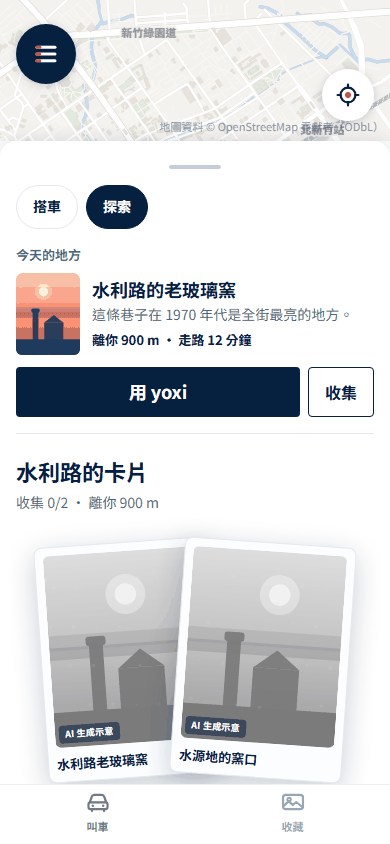
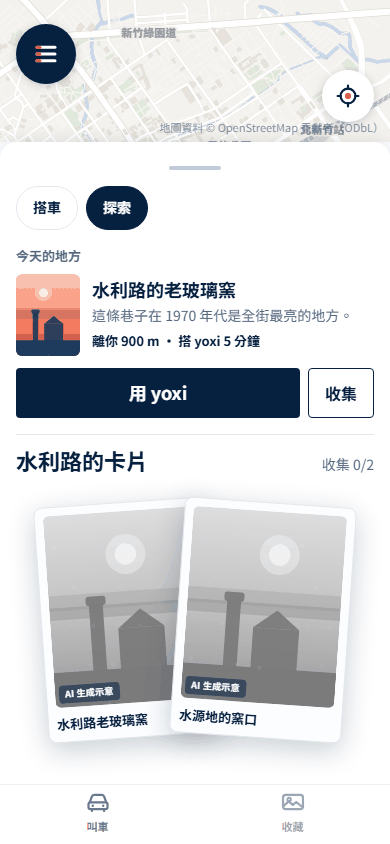
fix: 探索面板上拉後不再捲動，地點資訊改寫搭 yoxi 分鐘
- 展開的探索面板 overflow:hidden；卡片區改成定高（--ride-cards-h，JS 量＝展開高度扣掉收合態與間距，
  視窗改大小時隨地圖重畫重量），卡片堆是 size container，卡寬照張數、高度放不下就照高度縮。
  390×844 卡片大小跟原本一樣，667 高的手機也不用捲；拖曳時卡片不跟著變大小。
- 卡片區標題與「收集 n/N」排成一列，拿掉跟正上方地點資訊重複的距離，讓出高度給卡片。
- 地點資訊「離你 900 m · 走路 12 分鐘」改成「離你 900 m · 搭 yoxi 5 分鐘」（fmt.rideMin(fmt.km(dist))）。
- ride.spec：分鐘改驗 rideMin；新增「上拉不用捲」的測試（兩張、四張、667 高），舊 CSS 下會失敗。

diff --git a/app/css/views/ride.css b/app/css/views/ride.css
@@ -121,16 +121,26 @@
 .ride-v2__actions { display: grid; grid-template-columns: 1fr auto; gap: var(--sp-2); margin-top: var(--sp-3); }
 .ride-v2__actions .btn-primary, .ride-v2__actions .btn-ghost { min-height: 50px; }
 .ride-v2__actions .btn-ghost { padding: 0 var(--sp-4); border: 1px solid var(--yoxi-navy); }
-.ride-v2__expanded { margin-top: var(--sp-4); padding-top: var(--sp-3); padding-bottom: var(--sp-5); border-top: 1px solid var(--yoxi-line); }
-.ride-v2__section h2 { margin: var(--sp-2) 0 var(--sp-1); font-size: var(--fs-title); }
-.ride-v2__section p { margin: 0 0 var(--sp-4); color: var(--app-muted); font-size: var(--fs-sm); line-height: var(--lh-body); }
-.ride-v2__stack { display: flex; justify-content: center; align-items: center; width: 100%; min-height: 220px; padding: var(--sp-3) 0 var(--sp-4); }
-.ride-v2__card { position: relative; flex: none; width: 48%; padding: var(--sp-2); border: 1px solid var(--yoxi-line); border-radius: var(--r-card); background: var(--yoxi-paper); box-shadow: var(--sh-lift); text-align: left; transition: transform var(--t-base) var(--ease-out); }
-.ride-v2__card + .ride-v2__card { margin-left: -10%; }
-.ride-v2__stack[data-stack-size="3"] .ride-v2__card { width: 38%; }
-.ride-v2__stack[data-stack-size="4"] .ride-v2__card { width: 31%; }
-.ride-v2__stack[data-stack-size="3"] .ride-v2__card + .ride-v2__card,
-.ride-v2__stack[data-stack-size="4"] .ride-v2__card + .ride-v2__card { margin-left: -8%; }
+/* 展開後整張面板不捲：卡片區是定高（--ride-cards-h，JS 量＝展開高度扣掉地點資訊），標題一列，其餘給卡片堆 */
+.ride-v2__sheet:not(.is-collapsed) { overflow: hidden; }
+.ride-v2__expanded { display: flex; flex-direction: column; height: var(--ride-cards-h, 320px); margin-top: var(--sp-4); padding-top: var(--sp-3); border-top: 1px solid var(--yoxi-line); }
+.ride-v2__section { display: flex; justify-content: space-between; align-items: baseline; gap: var(--sp-3); }
+.ride-v2__section h2 { margin: 0; font-size: var(--fs-title); line-height: var(--lh-tight); }
+.ride-v2__section p { flex: none; margin: 0; color: var(--app-muted); font-size: var(--fs-sm); }
+/* 卡片堆吃掉剩下的高度、是 size container：卡寬照張數（兩張 48%、三張 38%、四張 31%），
+   高度放不下就照高度縮（卡高＝4:5 插圖＋內距＋框線＋一行名字 ≤ 100cqh）；疊的量跟著卡寬 */
+.ride-v2__stack {
+  --card-max: 48%; --card-lap: .21;
+  display: flex; flex: 1 1 0; min-height: 0; justify-content: center; align-items: center; width: 100%;
+  padding: var(--sp-3) 0 var(--sp-4); container-type: size;
+}
+.ride-v2__stack[data-stack-size="3"] { --card-max: 38%; }
+.ride-v2__stack[data-stack-size="4"] { --card-max: 31%; --card-lap: .26; }
+.ride-v2__card {
+  --card-w: min(var(--card-max), calc((100cqh - var(--sp-2) * 3 - 2px - var(--fs-cap) * 1.35) * .8 + var(--sp-2) * 2 + 2px));
+  position: relative; flex: none; width: var(--card-w); padding: var(--sp-2); border: 1px solid var(--yoxi-line); border-radius: var(--r-card); background: var(--yoxi-paper); box-shadow: var(--sh-lift); text-align: left; transition: transform var(--t-base) var(--ease-out);
+}
+.ride-v2__card + .ride-v2__card { margin-left: calc(var(--card-w) * var(--card-lap) * -1); }
 .ride-v2__card:nth-child(odd) { transform: rotate(-4deg); }
 .ride-v2__card:nth-child(even) { transform: rotate(4deg); }
 .ride-v2__card:hover, .ride-v2__card:focus-visible { z-index: 8; transform: translateY(-8px) rotate(0); }
@@ -139,7 +149,7 @@
 .ride-v2__card:not(.is-collected) .ride-v2__card-art > :first-child { filter: grayscale(1); opacity: .65; }
 /* 角標放左下：chengshi.css 的 .ai-mark 有 top，要清掉，不然上下都貼住、半透明的底色會拉成整張卡那麼高 */
 .ride-v2__card .ai-mark { position: absolute; top: auto; bottom: var(--sp-1); left: var(--sp-1); z-index: 2; }
-.ride-v2__card strong { display: block; margin-top: var(--sp-2); font-size: var(--fs-cap); line-height: 1.35; }
+.ride-v2__card strong { display: block; margin-top: var(--sp-2); overflow: hidden; font-size: var(--fs-cap); line-height: 1.35; white-space: nowrap; text-overflow: ellipsis; }
 
 .ride-card-float[hidden] { display: none; }
 .ride-card-float { position: absolute; inset: 0; z-index: 80; display: flex; align-items: center; justify-content: center; padding: var(--sp-4); background: var(--yoxi-navy-60); }

diff --git a/app/js/views/ride.js b/app/js/views/ride.js
@@ -861,11 +861,11 @@ function areaProgress(a) {
   return { done: a.cards.filter(function (id) { return S().has(id); }).length, total: a.cards.length };
 }
 function areaCard(id) { return (M().POSTCARDS || []).filter(function (p) { return p.id === id; })[0] || null; }
+/* 標題與進度排成一列；距離已經寫在正上方的地點資訊裡，這裡不重複（展開後整張面板不用捲） */
 function areaCardsHTML(a) {
-  const r = areaProgress(a), p = APP.place(a.id);
-  const d = p && p.dist != null ? '離你 ' + F.dist(p.dist) : DIST_TBD;
+  const r = areaProgress(a);
   return '<div class="ride-v2__section"><h2>' + esc(a.name) + '的卡片</h2>' +
-      '<p>收集 ' + r.done + '/' + r.total + ' · ' + esc(d) + '</p></div>' +
+      '<p>收集 ' + r.done + '/' + r.total + '</p></div>' +
     '<div class="ride-v2__stack" data-stack-size="' + a.cards.length + '">' + a.cards.map(function (id) {
       const c = areaCard(id);
       if (!c) return '';
@@ -890,6 +890,13 @@ function sheetMaxPx(sheet) {
   if (!isFinite(n)) return box;
   return /%$/.test(v) ? box * n / 100 : n;
 }
+/* 展開時卡片區的高度＝展開的高度扣掉收合態（到地點資訊為止）與上方間距。寫回 --ride-cards-h：
+   卡片照這個高度縮放，展開後不用捲；拖曳時面板只是露出多少，卡片不跟著變大小。 */
+function exploreCardsH(sheet) {
+  const cards = sheet.querySelector('[data-area-expanded]');
+  const gap = parseFloat(getComputedStyle(cards).marginTop) || 0;
+  return Math.max(0, Math.floor(sheetMaxPx(sheet) - exploreCollapsedH(sheet) - gap));
+}
 /* 標籤照資料寫：今天的地方＝MOCK.TODAY；預選的是最近的地區；其餘是使用者從地圖選的 */
 function areaLabel(a) {
   const today = M().TODAY;
@@ -899,7 +906,7 @@ function areaLabel(a) {
 function areaIntroHTML(a) {
   const p = APP.place(a.id);
   const hook = p.hook && p.hook.indexOf('收集於') !== 0 ? p.hook : p.type;
-  const meta = p.dist != null ? '離你 ' + F.dist(p.dist) + ' · 走路 ' + F.walkMin(p.dist) + ' 分鐘' : DIST_TBD;
+  const meta = p.dist != null ? '離你 ' + F.dist(p.dist) + ' · 搭 yoxi ' + F.rideMin(kmOf(p)) + ' 分鐘' : DIST_TBD;
   return '<div class="ride-v2__eyebrow">' + esc(areaLabel(a)) + '</div>' +
     '<div class="ride-v2__feature">' +
       '<span class="ride-v2__feature-art" data-art="' + esc(p.art) + '" data-seed="1"></span>' +
@@ -954,7 +961,11 @@ function rideV2Mount(root, params, ctx) {
       spots: store().get('rideSpots') === false ? false : rideSpots(), max: 4,
       overlay: mapOverlay('explore'), onSpot: function (s) { selectArea(s.id, true); },
     };
-  }, markSelected);
+  }, function (map) { markSelected(map); fit(); });     /* 視窗改大小會重畫地圖：兩段高度跟著重量 */
+  function fit() {
+    sheet.style.setProperty('--sheet-min', exploreCollapsedH(sheet) + 'px');
+    sheet.style.setProperty('--ride-cards-h', exploreCardsH(sheet) + 'px');
+  }
   /* 三段：hidden 只剩拉把（看整張地圖）／collapsed 地點資訊／open 接著看卡片 */
   let state = 'collapsed';
   function setSheet(next) {
@@ -970,7 +981,7 @@ function rideV2Mount(root, params, ctx) {
     SHELL.injectArt(intro);
     SHELL.injectArt(expanded);
     SHELL.injectIcons(sheet);
-    sheet.style.setProperty('--sheet-min', exploreCollapsedH(sheet) + 'px');
+    fit();
     intro.querySelector('[data-act="expand-cards"]').onclick = function () { setSheet('open'); };
     intro.querySelector('[data-act="use-yoxi"]').onclick = function () { setDropoff(selected.id, 'e'); };
     expanded.querySelectorAll('[data-act="open-card"]').forEach(function (b) {

diff --git a/app/tests/specs/ride.spec.js b/app/tests/specs/ride.spec.js
@@ -119,7 +119,9 @@ T.spec('ride', function (t) {
     const nearest = areas.reduce(function (a, b) { return app.APP.place(a).dist <= app.APP.place(b).dist ? a : b; });
     t.eq(app.route().query.get('area'), nearest, '探索預選最近地區');
     t.includes(app.text('.ride-v2__feature'), app.APP.place(nearest).name, '底部顯示最近地點');
-    t.includes(app.text('.ride-v2__feature'), String(app.APP.fmt.walkMin(app.APP.place(nearest).dist)), '步行分鐘由公式算');
+    const F = app.APP.fmt, nd = app.APP.place(nearest).dist;
+    t.includes(app.text('.ride-v2__feature'), '離你 ' + F.dist(nd) + ' · 搭 yoxi ' + F.rideMin(F.km(nd)) + ' 分鐘', '搭 yoxi 分鐘由公式算');
+    t.ok(app.text('.ride-v2__feature').indexOf('走路') < 0, '地點資訊不寫走路分鐘');
     t.ok(app.$('[data-act="use-yoxi"]') && app.$('[data-act="expand-cards"]'), '用 yoxi 與收集兩個動作');
     await app.click('[data-act="mode-ride"]');
     t.eq(app.route().query.get('mode'), null, '切回搭車清除探索模式');
@@ -854,6 +856,39 @@ T.spec('ride', function (t) {
       resize('760px');
       await app.waitFor(function () { const s = app.$('.spot.is-selected'); return s && filled(); }, 3000, '探索重畫後仍標著選到的景點');
       t.eq(app.$$('main.view .spot').length, 4, '探索重畫後還是四顆景點');
+      t.eq(app.errors.length, 0, '錯誤：' + app.errors.join('；'));
+    } finally {
+      fr.style.height = h0;
+    }
+  }, { timeout: 15000 });
+
+  t.test('探索上拉：卡片照剩下的高度縮，整張面板不用捲（兩張、四張、矮的手機）', async function (app) {
+    const fr = app.win.frameElement, h0 = fr.style.height;
+    const fits = function (msg) {
+      const s = app.$('.ride-sheet'), sr = s.getBoundingClientRect(), st = app.$('.ride-v2__stack').getBoundingClientRect();
+      t.ok(!s.classList.contains('is-collapsed'), msg + '：展開');
+      t.eq(app.win.getComputedStyle(s).overflowY, 'hidden', msg + '：展開的面板不捲');
+      t.ok(s.scrollHeight <= s.clientHeight + 1, msg + '：內容 ' + s.scrollHeight + ' ≤ 面板 ' + s.clientHeight);
+      t.ok(st.bottom <= sr.bottom + 1, msg + '：卡片堆在面板裡 ' + Math.round(st.bottom) + ' ≤ ' + Math.round(sr.bottom));
+      const out = app.$$('.ride-v2__card').filter(function (c) {
+        const r = c.getBoundingClientRect();
+        return r.height < 60 || r.top < st.top - 1 || r.bottom > st.bottom + 1;
+      });
+      t.eq(out.length, 0, msg + '：每張卡都在卡片堆裡、沒有縮到看不見');
+    };
+    try {
+      for (const area of ['glass-kiln', 'market']) {
+        await app.reset();
+        await app.go('/ride?mode=explore&area=' + area);
+        await app.click('[data-act="expand-cards"]');
+        fits(area);
+      }
+      /* 矮的手機：改 iframe 高度、補發 resize（原因見上一個測試），地圖重畫時卡片區重量 */
+      const before = app.$('.ride-sheet').style.getPropertyValue('--ride-cards-h');
+      fr.style.height = '667px';
+      app.win.dispatchEvent(new app.win.Event('resize'));
+      await app.waitFor(function () { return app.$('.ride-sheet').style.getPropertyValue('--ride-cards-h') !== before; }, 3000, '改高之後卡片區重量');
+      fits('667 高');
       t.eq(app.errors.length, 0, '錯誤：' + app.errors.join('；'));
     } finally {
       fr.style.height = h0;

diff --git a/app/ARCHITECTURE.md b/app/ARCHITECTURE.md
@@ -37,7 +37,7 @@ app 比原型多出來的東西（原型是一疊畫面，app 要能走完一圈
 
 ### 雙主頁的叫車面板
 
-- `#/ride` 預設是一般搭車地圖與叫車欄位；搭車面板跟探索一樣上下拉：往下拉收到只剩拉把（整張地圖露出來），往上拉或點拉把回到叫車欄位，拖曳時跟手、放開後接續動畫。面板頂端的「探索」切到 `#/ride?mode=explore`，地圖顯示四個附近地點，並依 `APP.place(id).dist` 預選最近的地區。探索面板收合態用一張精簡地點卡顯示名稱、短句、距離與步行分鐘，動作是「用 yoxi」及「收集」；上拉或點「收集」時保留完整地點卡與兩個動作，卡片堆接在下方，內容過長可捲動。點卡片開啟可翻面的懸浮小卡，不進地點詳情頁。地區只從地圖圖釘切換，不另設附近地區清單。選點後網址寫成 `#/ride?mode=explore&area=<地點 id>`；往下拉只收合面板，仍留在探索。探索面板有三段：展開（卡片）／收合（地點卡）／只剩拉把。兩個模式的地圖都一開始就畫成最大可見高度、貼齊上緣，面板收放不縮放地圖；定位鈕與地圖署名跟著貼到可見範圍底邊（`ride.js` 的 `mountFullMap`／`bindDragSheet`）。從地圖點選會把面板帶回收合態（只剩拉把時也會叫回來）；切回「搭車」清除探索 query。
+- `#/ride` 預設是一般搭車地圖與叫車欄位；搭車面板跟探索一樣上下拉：往下拉收到只剩拉把（整張地圖露出來），往上拉或點拉把回到叫車欄位，拖曳時跟手、放開後接續動畫。面板頂端的「探索」切到 `#/ride?mode=explore`，地圖顯示四個附近地點，並依 `APP.place(id).dist` 預選最近的地區。探索面板收合態用一張精簡地點卡顯示名稱、短句、「離你 N m · 搭 yoxi N 分鐘」（`fmt.dist`＋`fmt.rideMin(fmt.km(dist))`），動作是「用 yoxi」及「收集」；上拉或點「收集」時保留完整地點卡與兩個動作，卡片區接在下方（標題與「收集 n/N」一列）。展開的面板不捲：卡片區是定高 `--ride-cards-h`（JS 量＝展開高度 `--sheet-max` 扣掉收合態與間距，視窗改大小時重量），卡片堆是 size container，卡寬照張數、高度放不下就照高度縮；拖曳時卡片不跟著變大小。點卡片開啟可翻面的懸浮小卡，不進地點詳情頁。地區只從地圖圖釘切換，不另設附近地區清單。選點後網址寫成 `#/ride?mode=explore&area=<地點 id>`；往下拉只收合面板，仍留在探索。探索面板有三段：展開（卡片）／收合（地點卡）／只剩拉把。兩個模式的地圖都一開始就畫成最大可見高度、貼齊上緣，面板收放不縮放地圖；定位鈕與地圖署名跟著貼到可見範圍底邊（`ride.js` 的 `mountFullMap`／`bindDragSheet`）。從地圖點選會把面板帶回收合態（只剩拉把時也會叫回來）；切回「搭車」清除探索 query。
 - 手勢與可及性（2026-09-25 review）：拉把是 `<button class="sheet__grip" data-act="toggle-sheet" aria-expanded>`，44 px 高（面板 padding-top 0，只剩拉把時高 44）；移動 ≤ 8 px 算點一下，超過就照拖的方向（加放手速度）換段；只認主要指標的左鍵、`setPointerCapture`，失焦或 `lostpointercapture` 就作廢回原段；拖曳一開始就拿掉 `is-collapsed`，卡片堆跟著手長出來。視窗改大小（ResizeObserver＋resize）整張地圖重畫。探索模式的上車點只留 pin、不畫地址標籤；地點卡的標籤是「今天的地方／離你最近／你選的地方」（照 `MOCK.TODAY`）。懸浮小卡掛在 `.device`（`data-overlay`），用 `APP.ui.a11yDialog`。已經有下車點時不放「機場接送」（可按數）。
 - 四組展示對應：`glass-kiln → p11,p17`、`market → p1,p2,p7,p20`、`moat → p3,p19`、`hill → p6,p21`。群組只定義卡片歸屬，收集與公里數仍由 `STATE`／`MOCK`／`APP.fmt` 計算；卡片不連地點詳情。
 - 舊 `/place/:id`、探索與回顧路由仍能直接開啟，供既有資料和流程對照；新底欄和叫車卡片面板不導向它們。
